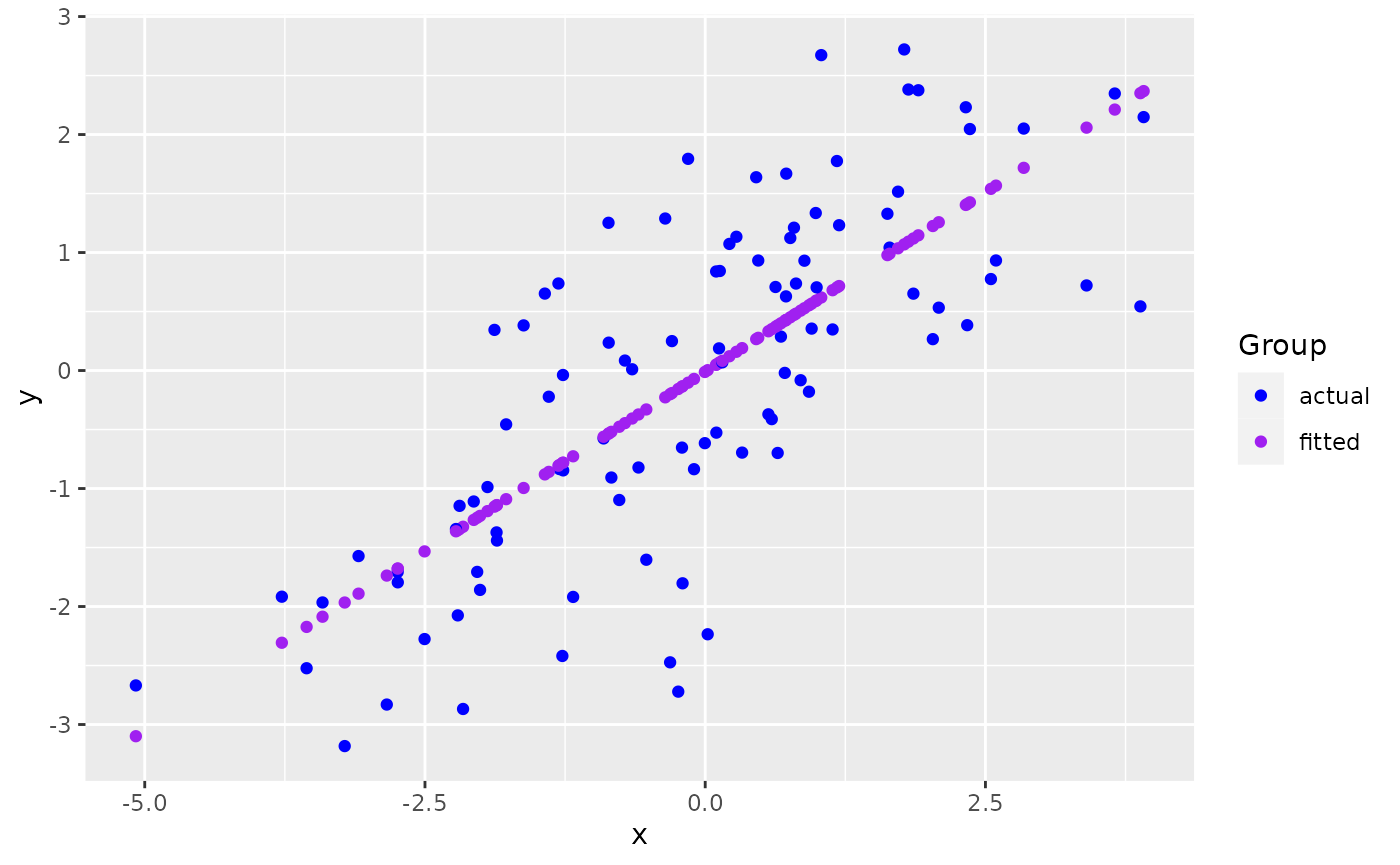
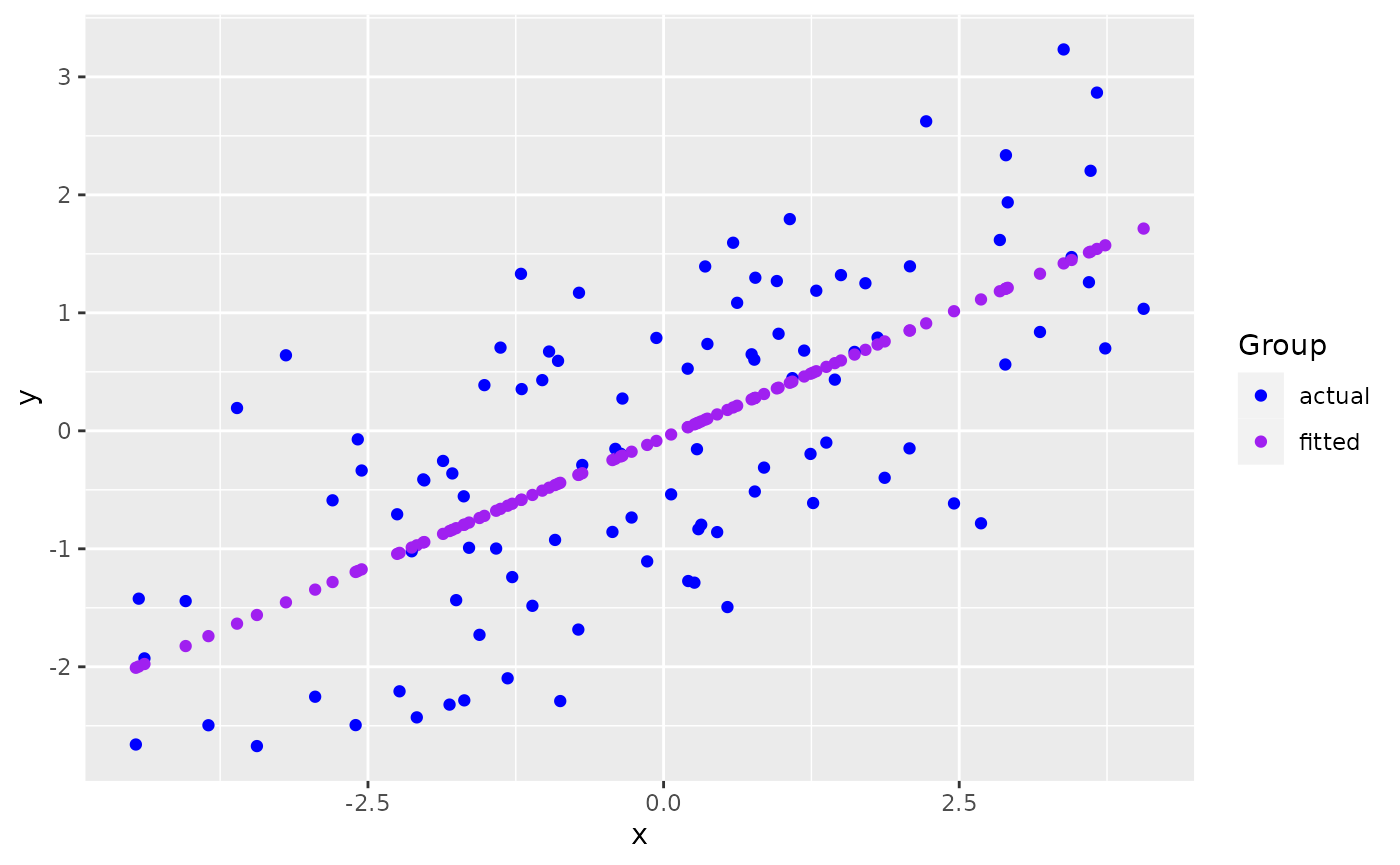
Built site for ggmatplot: 0.1.2@0722214

diff --git a/articles/ggmatplot.html b/articles/ggmatplot.html
@@ -103,7 +103,7 @@
 <span class="va">x</span> <span class="op">&lt;-</span> <span class="fu"><a href="https://rdrr.io/r/base/c.html" class="external-link">c</a></span><span class="op">(</span><span class="fu"><a href="https://rdrr.io/r/stats/Normal.html" class="external-link">rnorm</a></span><span class="op">(</span><span class="fl">100</span>, sd <span class="op">=</span> <span class="fl">2</span><span class="op">)</span><span class="op">)</span>
 
 <span class="fu"><a href="https://rdrr.io/r/utils/head.html" class="external-link">head</a></span><span class="op">(</span><span class="va">x</span><span class="op">)</span>
-<span class="co">#&gt; [1] -0.59530070 -0.90663086  0.02207849  1.81297809 -5.07929435 -1.30051037</span>
+<span class="co">#&gt; [1] -3.4392248 -0.4079265 -0.7154324  0.9723400  1.1887671 -1.7865985</span>
 
 <span class="co"># matrix z</span>
 <span class="va">y</span> <span class="op">&lt;-</span> <span class="va">x</span> <span class="op">*</span> <span class="fl">0.5</span> <span class="op">+</span> <span class="fu"><a href="https://rdrr.io/r/stats/Normal.html" class="external-link">rnorm</a></span><span class="op">(</span><span class="fl">100</span>, sd <span class="op">=</span> <span class="fl">1</span><span class="op">)</span>
@@ -112,13 +112,13 @@
            fitted <span class="op">=</span> <span class="va">fit.y</span><span class="op">)</span>
 
 <span class="fu"><a href="https://rdrr.io/r/utils/head.html" class="external-link">head</a></span><span class="op">(</span><span class="va">z</span><span class="op">)</span>
-<span class="co">#&gt;       actual       fitted</span>
-<span class="co">#&gt; 1 -0.8218681 -0.372362238</span>
-<span class="co">#&gt; 2 -0.5755412 -0.561685857</span>
-<span class="co">#&gt; 3 -2.2351130  0.003073472</span>
-<span class="co">#&gt; 4  2.3815460  1.092141059</span>
-<span class="co">#&gt; 5 -2.6687591 -3.099132717</span>
-<span class="co">#&gt; 6 -0.8349005 -0.801208723</span></code></pre></div>
+<span class="co">#&gt;       actual     fitted</span>
+<span class="co">#&gt; 1 -2.6720071 -1.5610243</span>
+<span class="co">#&gt; 2 -0.1529328 -0.2370749</span>
+<span class="co">#&gt; 3  1.1700937 -0.3713811</span>
+<span class="co">#&gt; 4  0.8225297  0.3657701</span>
+<span class="co">#&gt; 5  0.6799995  0.4602968</span>
+<span class="co">#&gt; 6 -0.3612328 -0.8392235</span></code></pre></div>
 <p><code>ggmatplot</code> plots vector <code>x</code> against each column of matrix <code>z</code> using the default <code>plot_type = "point"</code>. This will be represented on the resulting plot as two groups, identified using different shapes and colors.</p>
 <div class="sourceCode" id="cb2"><pre class="downlit sourceCode r">
 <code class="sourceCode R"><span class="kw"><a href="https://rdrr.io/r/base/library.html" class="external-link">library</a></span><span class="op">(</span><span class="va"><a href="https://github.com/xuan-liang/ggmatplot" class="external-link">ggmatplot</a></span><span class="op">)</span>
